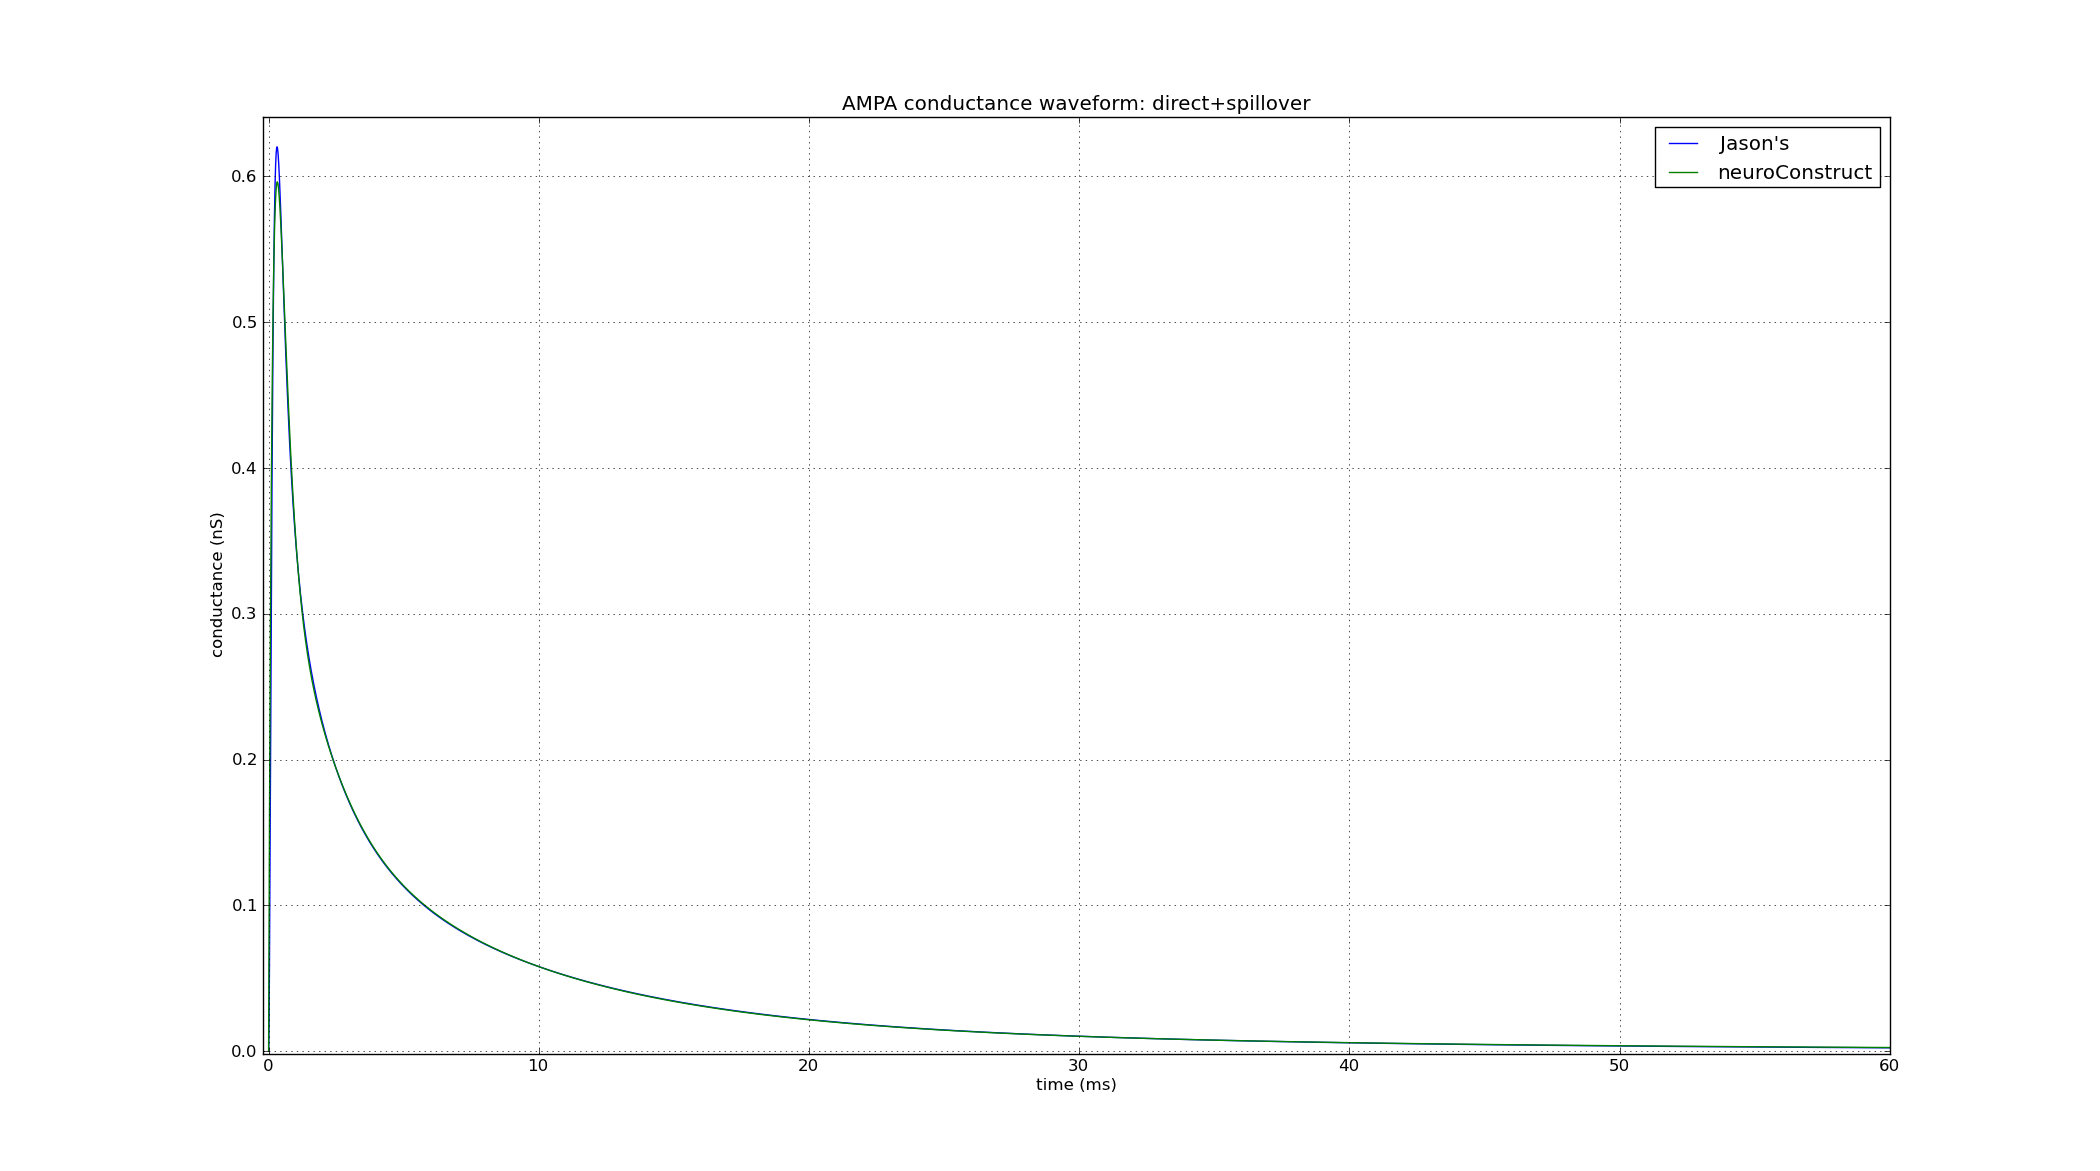
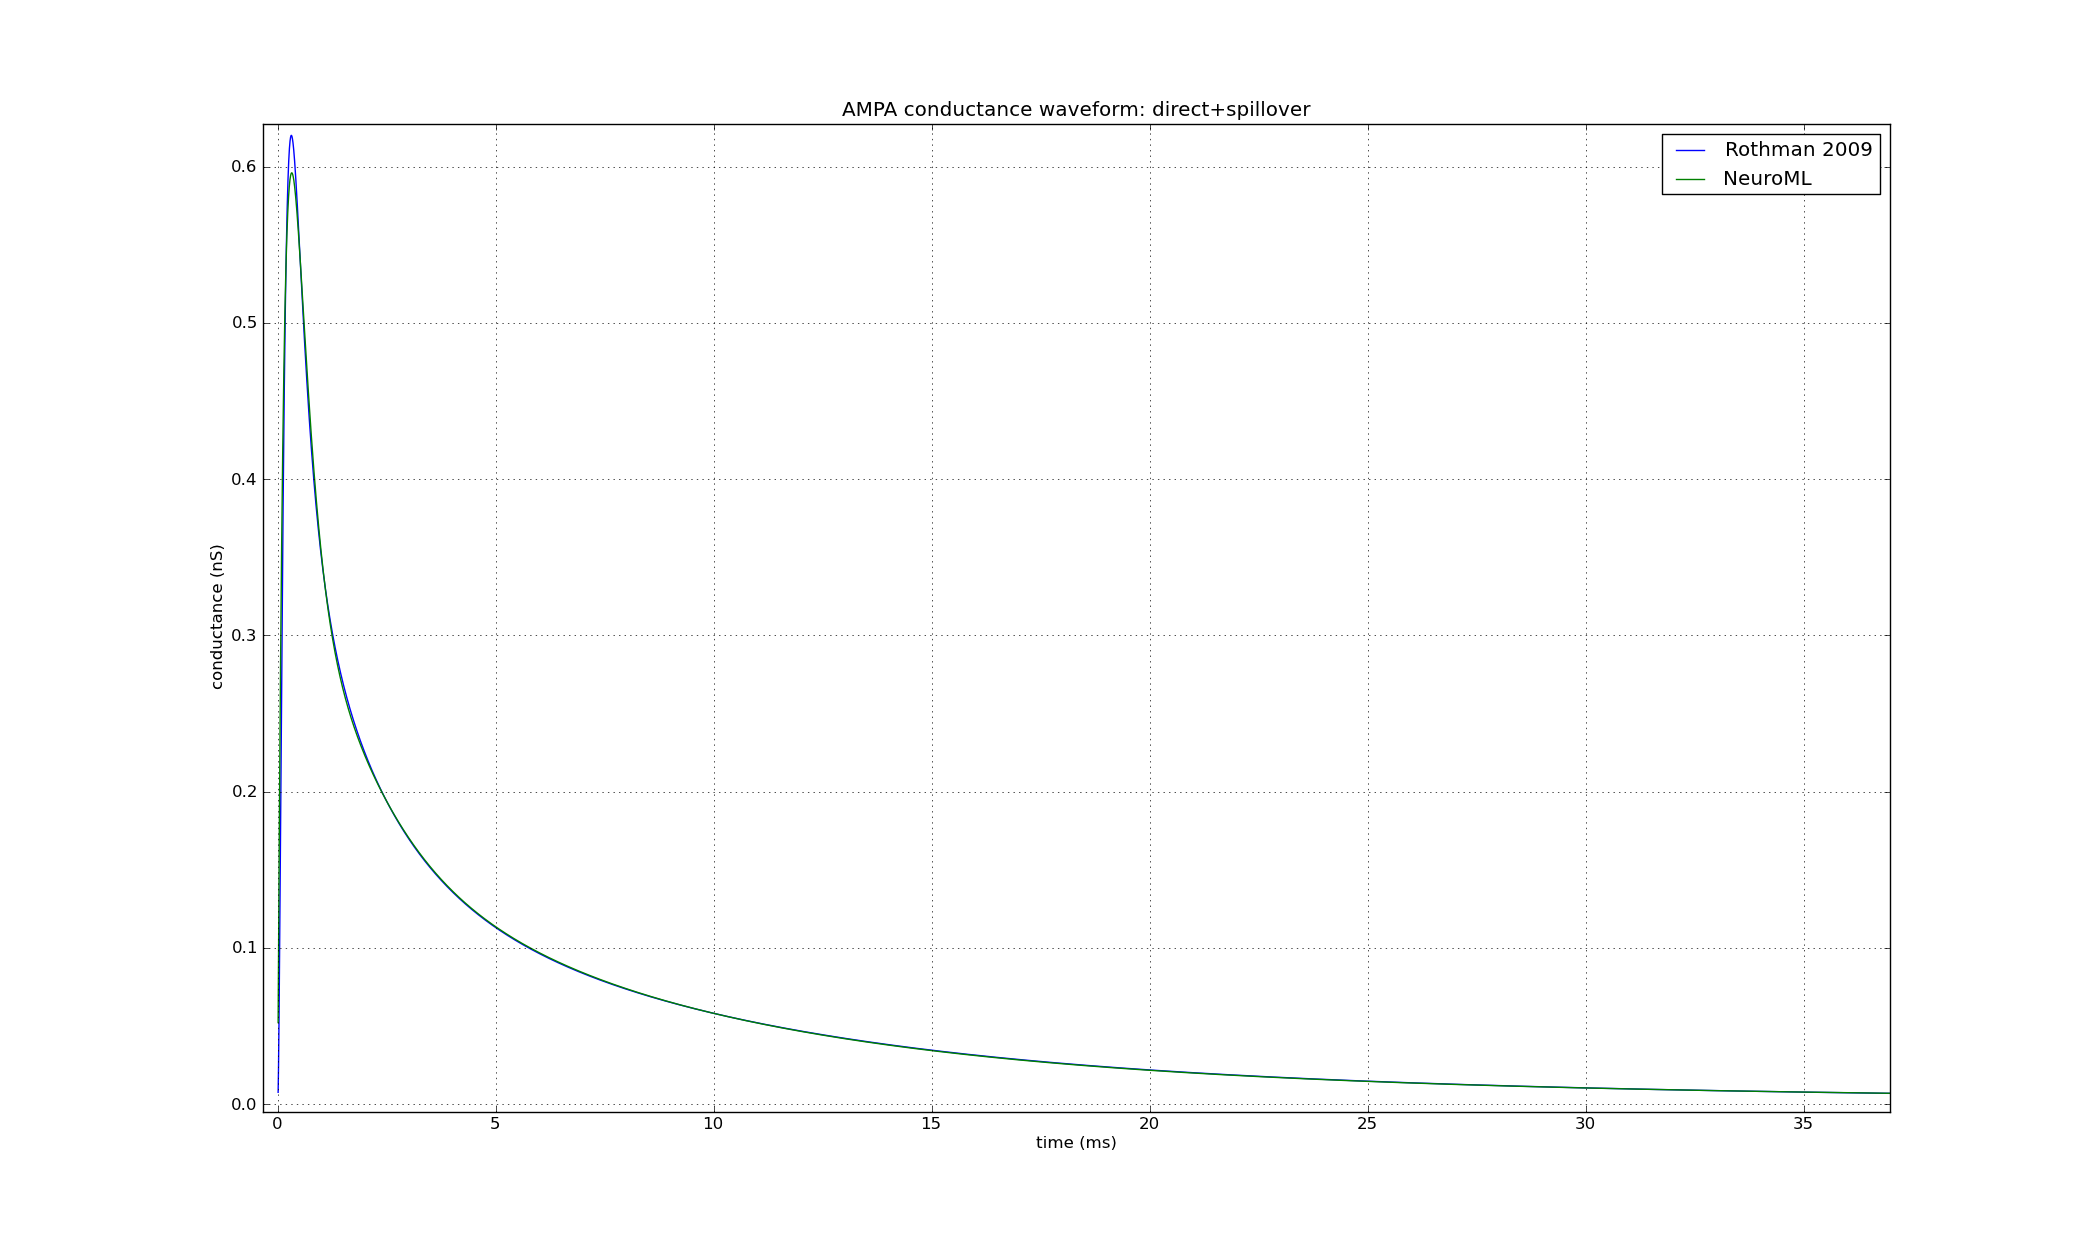
Committing some old fixes.

diff --git a/waveforms.py b/waveforms.py
@@ -48,9 +48,9 @@ n_VK2off_J = -45.895
 pulse_duration = 2*as_tau_dec_3_J
 time_points = np.arange(0.01, pulse_duration, 0.001)
 
-ampa_fit=False
-nmda_fit=False
-p7_9_fit=True
+ampa_fit=True
+nmda_fit=True
+p7_9_fit=False
 
 def peak_time(tau_rise, tau_dec):
     return (tau_dec*tau_rise)/(tau_dec-tau_rise)*log(tau_dec/tau_rise)
@@ -137,13 +137,13 @@ if ampa_fit:
     # estimate error on waveform integral
     a_g_values = np.array([a_g(t) for t in time_points])
     integral_diff = np.abs(trapz(a_g_J_values_scaled_to_max - a_g_values, dx=0.001))
-    #print(integral_diff)
+    print(integral_diff)
 
     param_file.write("AMPA direct parameters: {params}\n".format(params=zip(['tau_rise', 'a1', 'tau_dec_1', 'a2', 'tau_dec_2', 'a3', 'tau_dec_a3'], ad_params_f)))
     param_file.write("AMPA spillover parameters: {params}\n".format(params=zip(['tau_rise', 'a1', 'tau_dec_1', 'a2', 'tau_dec_2', 'a3', 'tau_dec_a3'], as_params_f)))    
     a_fig = plt.figure()
     a_ax = a_fig.add_subplot(111)
-    a_ax.plot(time_points, a_g_J_values_scaled_to_max, label="Jason's")
+    a_ax.plot(time_points, a_g_J_values_scaled_to_max, label="Rothman 2009")
     a_ax.plot(time_points, a_g_values, label="NeuroML")
     a_ax.set_title('AMPA conductance waveform: direct+spillover')
     a_ax.set_xlabel('time (ms)')
@@ -171,9 +171,12 @@ if nmda_fit:
     n_g_unblock_values = np.array([n_g_unblock_fitted(t) for t in time_points])
     n_block_values = np.array([n_block_fitted(v) for v in voltage_points])
 
+    integral_diff = np.abs(trapz(n_g_unblock_J_scaled - n_g_unblock_values, dx=0.001))
+    print(integral_diff)
+
 
     param_file.write("NMDA (unbblocked) parameters: {params}\n".format(params=zip(['tau_rise', 'a', 'tau_dec'], n_g_unblock_params_f)))
-    param_file.write("NMDA block expression: {params}\n".format(params=zip(['eta', 'gamma'], n_block_params_f)))    
+    param_file.write("NMDA block expression: {params}\n".format(params=zip(['eta', 'gamma'], n_block_params_f)))
 
     n_fig = plt.figure()
     n_ax = n_fig.add_subplot(111)
@@ -187,7 +190,7 @@ if nmda_fit:
 
     nb_fig = plt.figure()
     nb_ax = nb_fig.add_subplot(111)
-    nb_ax.plot(voltage_points, n_block_eric_values, label="Jason's")
+    nb_ax.plot(voltage_points, n_block_eric_values, label="Rothman 2009")
     nb_ax.plot(voltage_points, n_block_values, label="NeuroML")
     nb_ax.set_title('NMDA block')
     nb_ax.set_xlabel('membrane potential (mV)')
